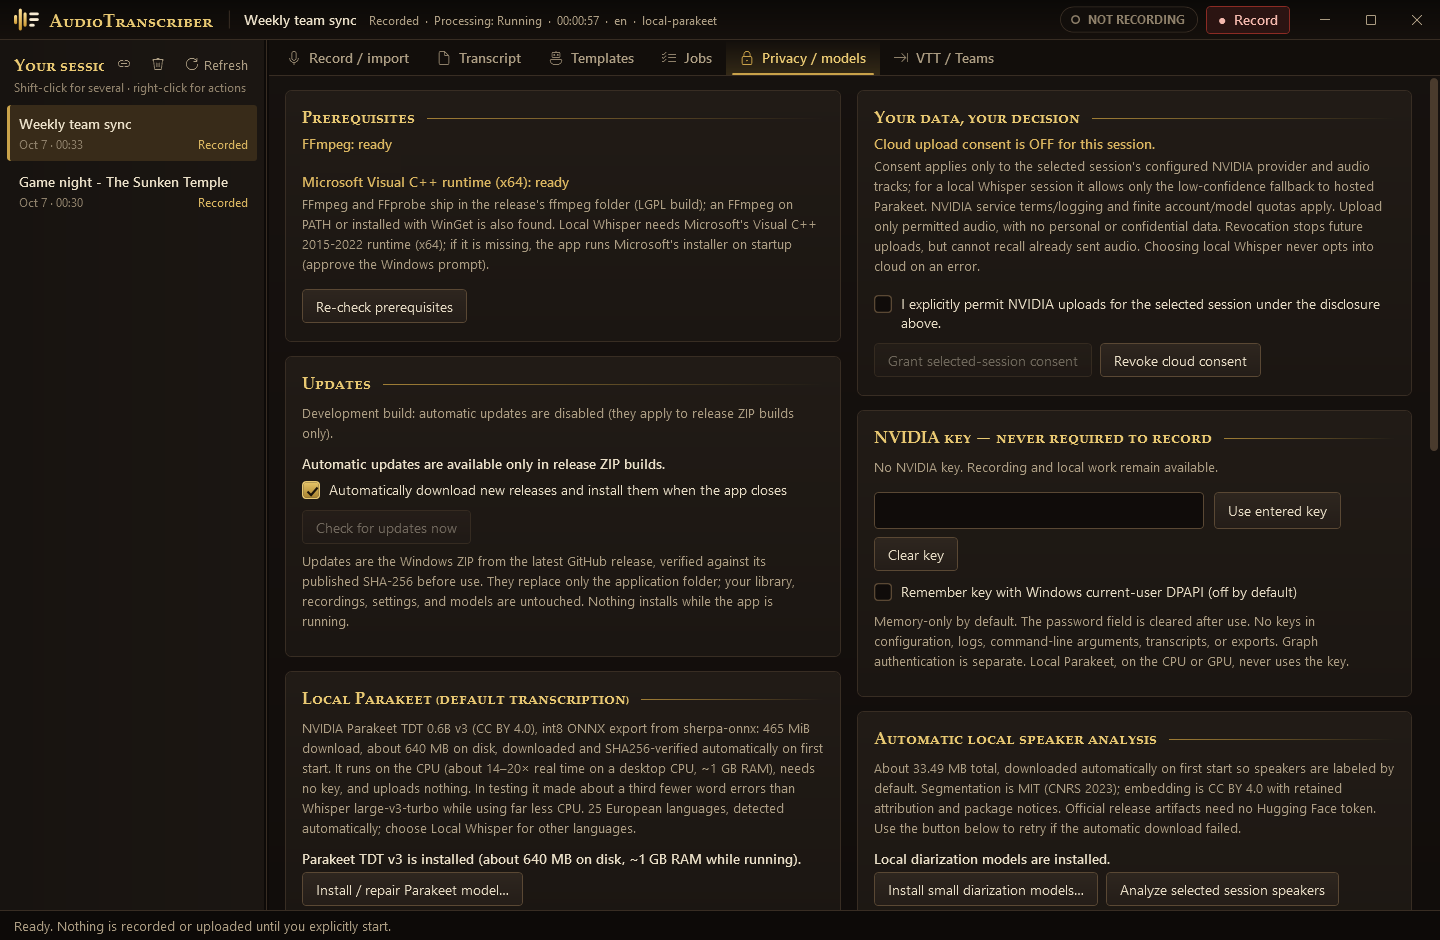
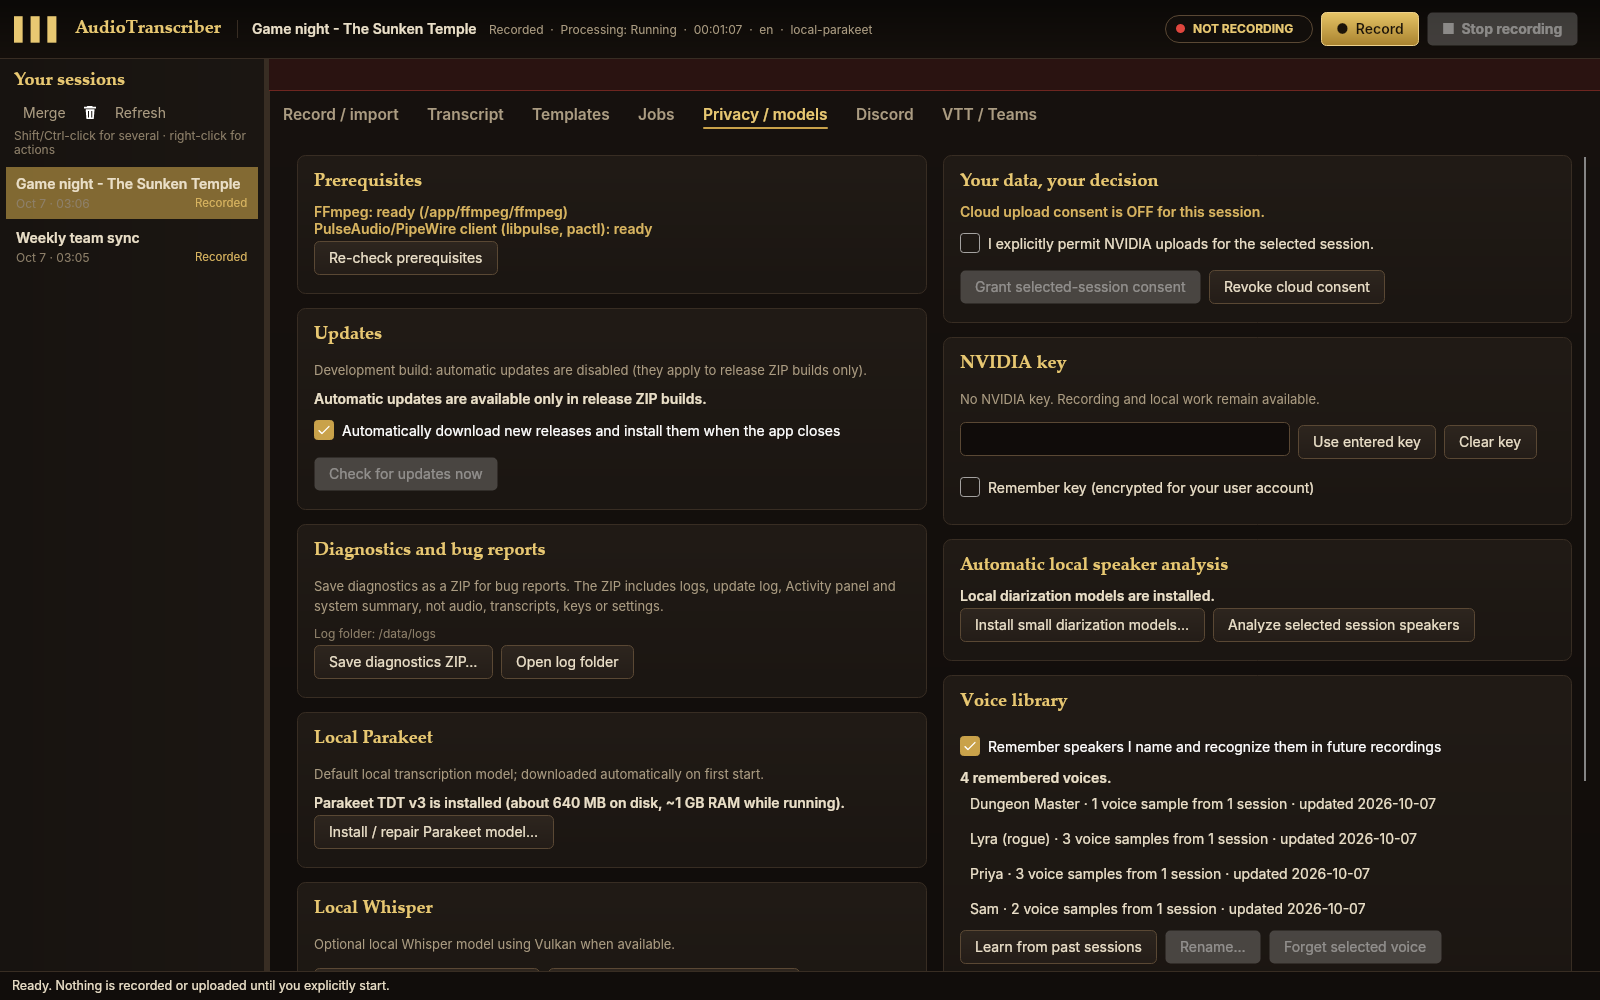
README and wiki: new UI screenshots, Linux and installers
Recapture every screenshot from the new Avalonia UI (Linux build, 1600x1000),
add a Discord tab shot, mention the Windows/Linux installers, and update the
wiki home for the new downloads.

diff --git a/README.md b/README.md
@@ -27,7 +27,7 @@
 
 <img src="docs/images/transcript.png" alt="AudioTranscriber showing a tabletop game session transcript, with every line labeled Dungeon Master or Lyra (rogue)">
 
-<p align="center"><i>A game night, transcribed on the PC with every speaker named. Fill in two lines yourself and the app labels the rest by voice.</i></p>
+<p align="center"><i>A game night, transcribed on your own computer with every speaker named. Label two lines yourself and the app labels the rest by voice.</i></p>
 
 ---
 
@@ -136,11 +136,12 @@ The speech model downloads by itself the first time you start the app.
 </tr>
 </table>
 
-**Plus the small things:** automatic updates from GitHub releases (checked
-against SHA-256 before installing), a live activity log that shows what's
-happening, a jobs view with pause, resume and cancel, bulk-deleting old sessions,
-safe recovery after a crash, a one-click **diagnostics ZIP** for bug reports (with
-your user name scrubbed), and a dark gold theme.
+**Plus the small things:** real installers for Windows and Linux (`.exe`, `.deb`,
+`.rpm`), automatic updates from GitHub releases (checked against SHA-256 before
+installing), a live activity log that shows what's happening, a jobs view with
+pause, resume and cancel, bulk-deleting old sessions, safe recovery after a crash, a
+one-click **diagnostics ZIP** for bug reports (with your user name scrubbed), and a
+dark gold theme.
 
 ## 📸 Take a look
 
@@ -151,9 +152,14 @@ your user name scrubbed), and a dark gold theme.
 </tr>
 <tr>
 <td><img src="docs/images/templates.png" alt="Output templates with DM guidance, session summary, NPCs and items"><p align="center"><b>Output templates</b><br>Your prompts, updated from the live transcript.</p></td>
-<td><img src="docs/images/privacy-models.png" alt="Privacy / models tab with cloud consent off, local Parakeet and local speaker analysis"><p align="center"><b>You stay in control</b><br>Local models, consent per session, no key needed.</p></td>
+<td><img src="docs/images/discord.png" alt="Discord tab with guided bot setup and network help"><p align="center"><b>Record Discord servers</b><br>Guided bot setup; every line named after its speaker.</p></td>
+</tr>
+<tr>
+<td colspan="2" align="center"><img src="docs/images/privacy-models.png" alt="Privacy / models tab with cloud consent off, diagnostics, local Parakeet, speaker analysis and the voice library" width="50%"><p align="center"><b>You stay in control</b><br>Local models, consent per session, a voice library you can see and edit.</p></td>
 </tr>
 </table>
+
+<p align="center"><sub>The same app and dark gold theme on Windows and Linux (screenshots taken on Linux).</sub></p>
 
 ## 🚀 Up and running in a minute
 

diff --git a/docs/wiki/Home.md b/docs/wiki/Home.md
@@ -13,9 +13,10 @@ transcripts, corrections, playback, exports, WebVTT import, optional Teams trans
 retrieval, and optional output templates powered by OpenAI-compatible LLMs. NVIDIA cloud
 routes are opt-in per session.
 
-Latest release: download `AudioTranscriber-<tag>-win-x64.zip` from [the latest
-release](https://github.com/throndir2/AudioTranscriber/releases/latest). Release ZIPs
-are unsigned Windows x64 builds and update themselves from GitHub.
+Latest release: get the Windows setup `.exe`, a Linux `.deb`/`.rpm`, or the portable
+`.zip`/`.tar.gz` from [the latest release](https://github.com/throndir2/AudioTranscriber/releases/latest)
+(see [Installing](Installing-AudioTranscriber)). Releases are unsigned and update
+themselves from GitHub.
 
 <img src="https://raw.githubusercontent.com/throndir2/AudioTranscriber/main/docs/images/transcript.png" alt="A transcribed game session with every line labeled by speaker">
 
@@ -29,7 +30,7 @@ are unsigned Windows x64 builds and update themselves from GitHub.
 
 | Page | What it helps with |
 | --- | --- |
-| [Installing](Installing-AudioTranscriber) | Downloading the unsigned Windows x64 ZIP and keeping its folders together. |
+| [Installing](Installing-AudioTranscriber) | Windows installer, Linux packages, portable downloads and prerequisites. |
 | [First Steps](First-Steps) | The default first recording: output, microphone, local Parakeet, models, and consent. |
 | [Recording and Importing](Recording-and-Importing) | Recording output/mic audio, importing media, phrase pauses, and live activity. |
 | [Transcripts and Search](Transcripts-and-Search) | Searching, correcting, playing, exporting, and mirroring transcripts to a live file. |
